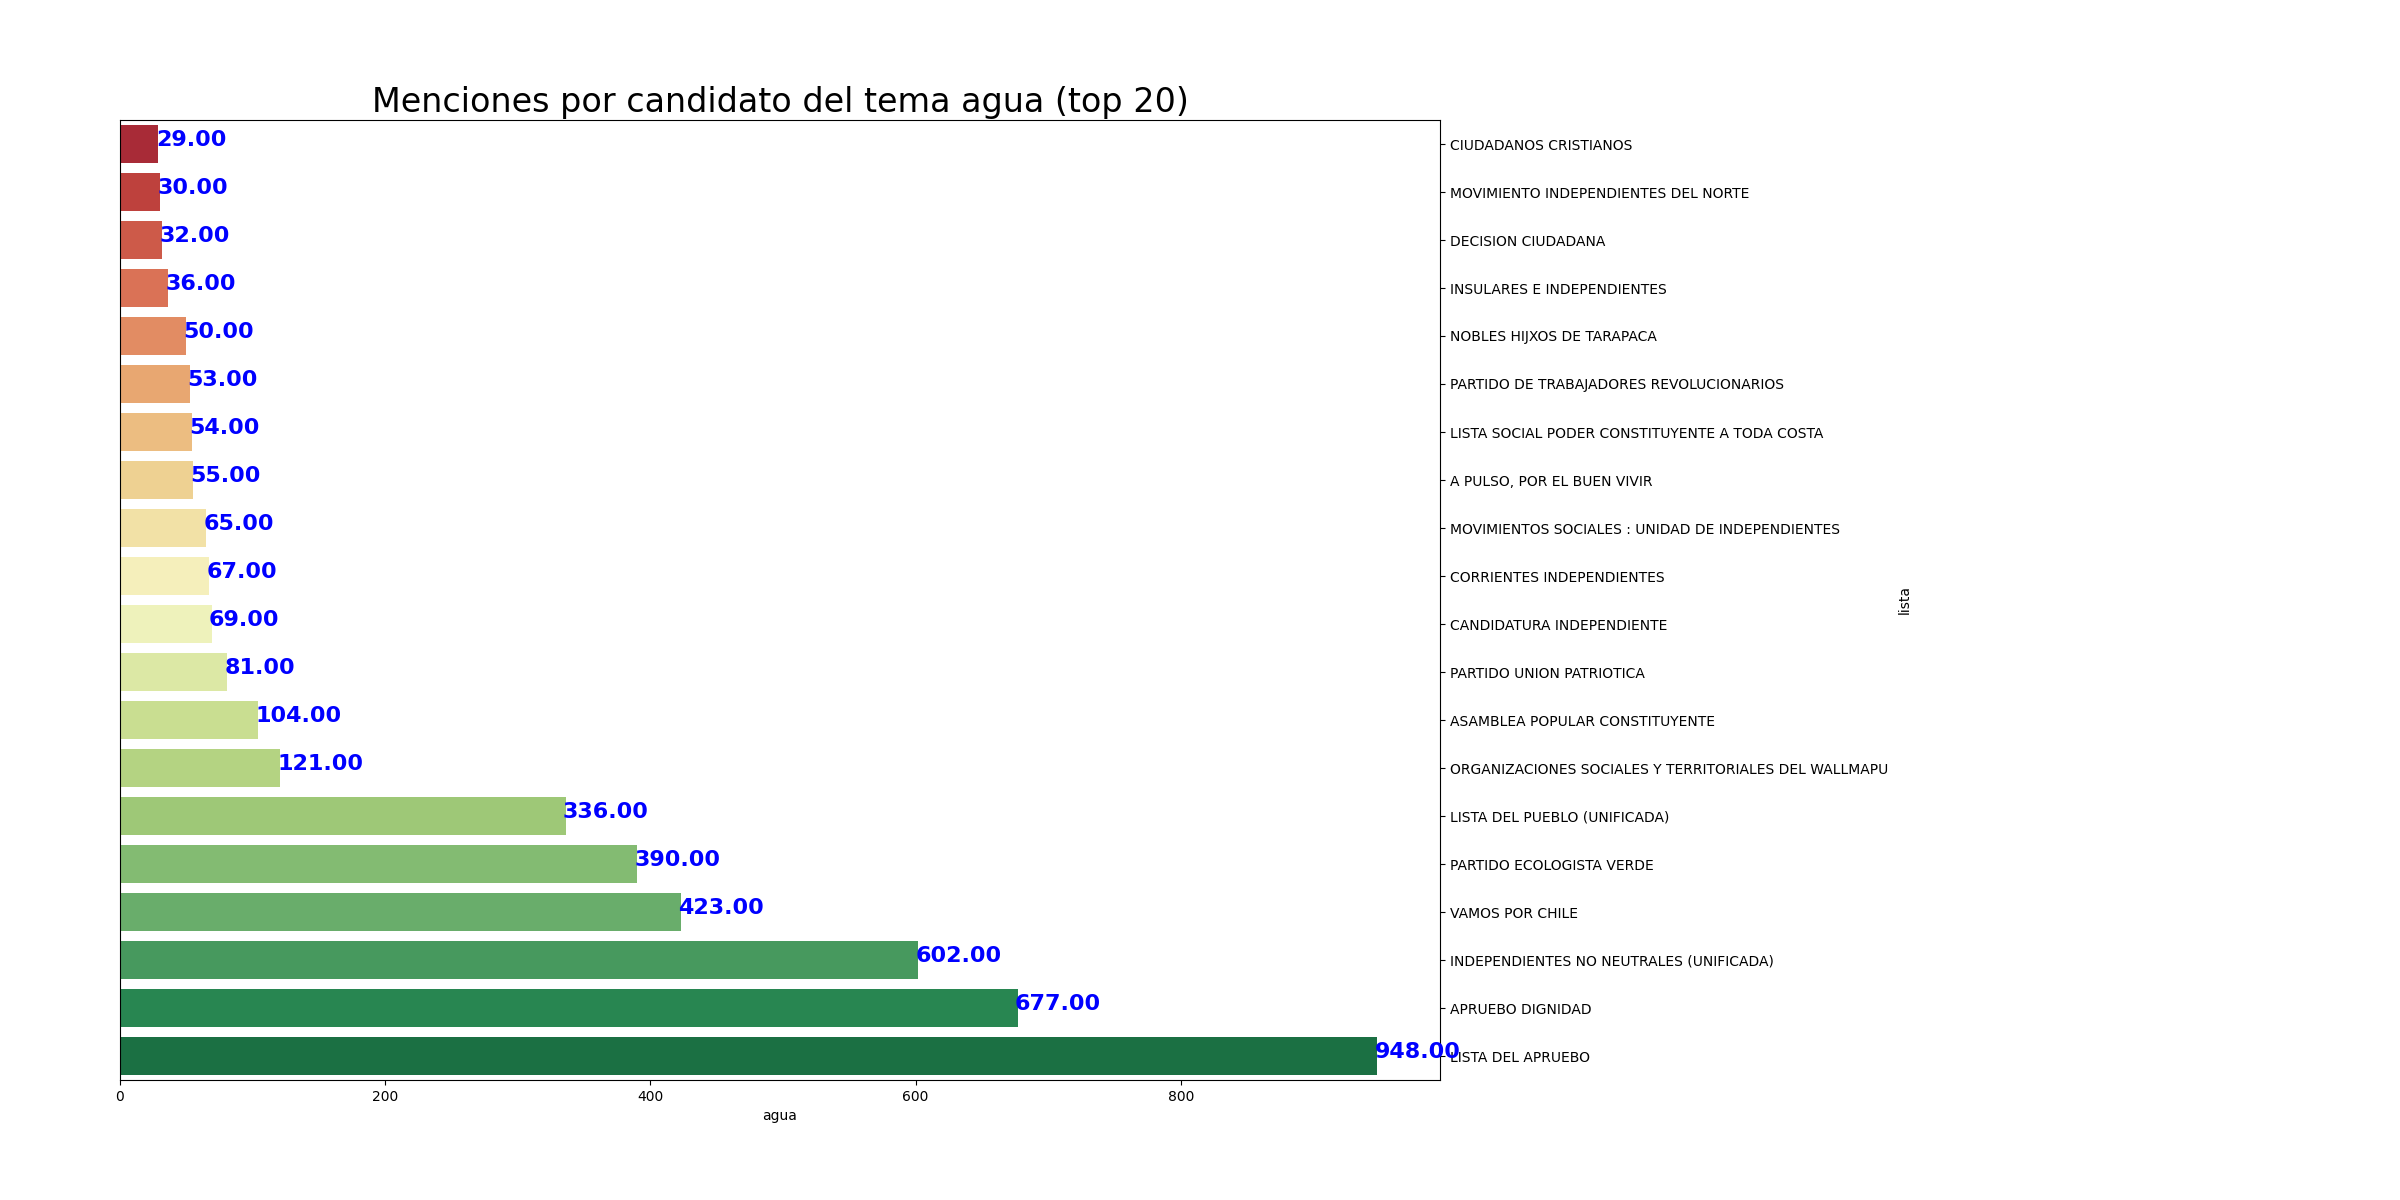
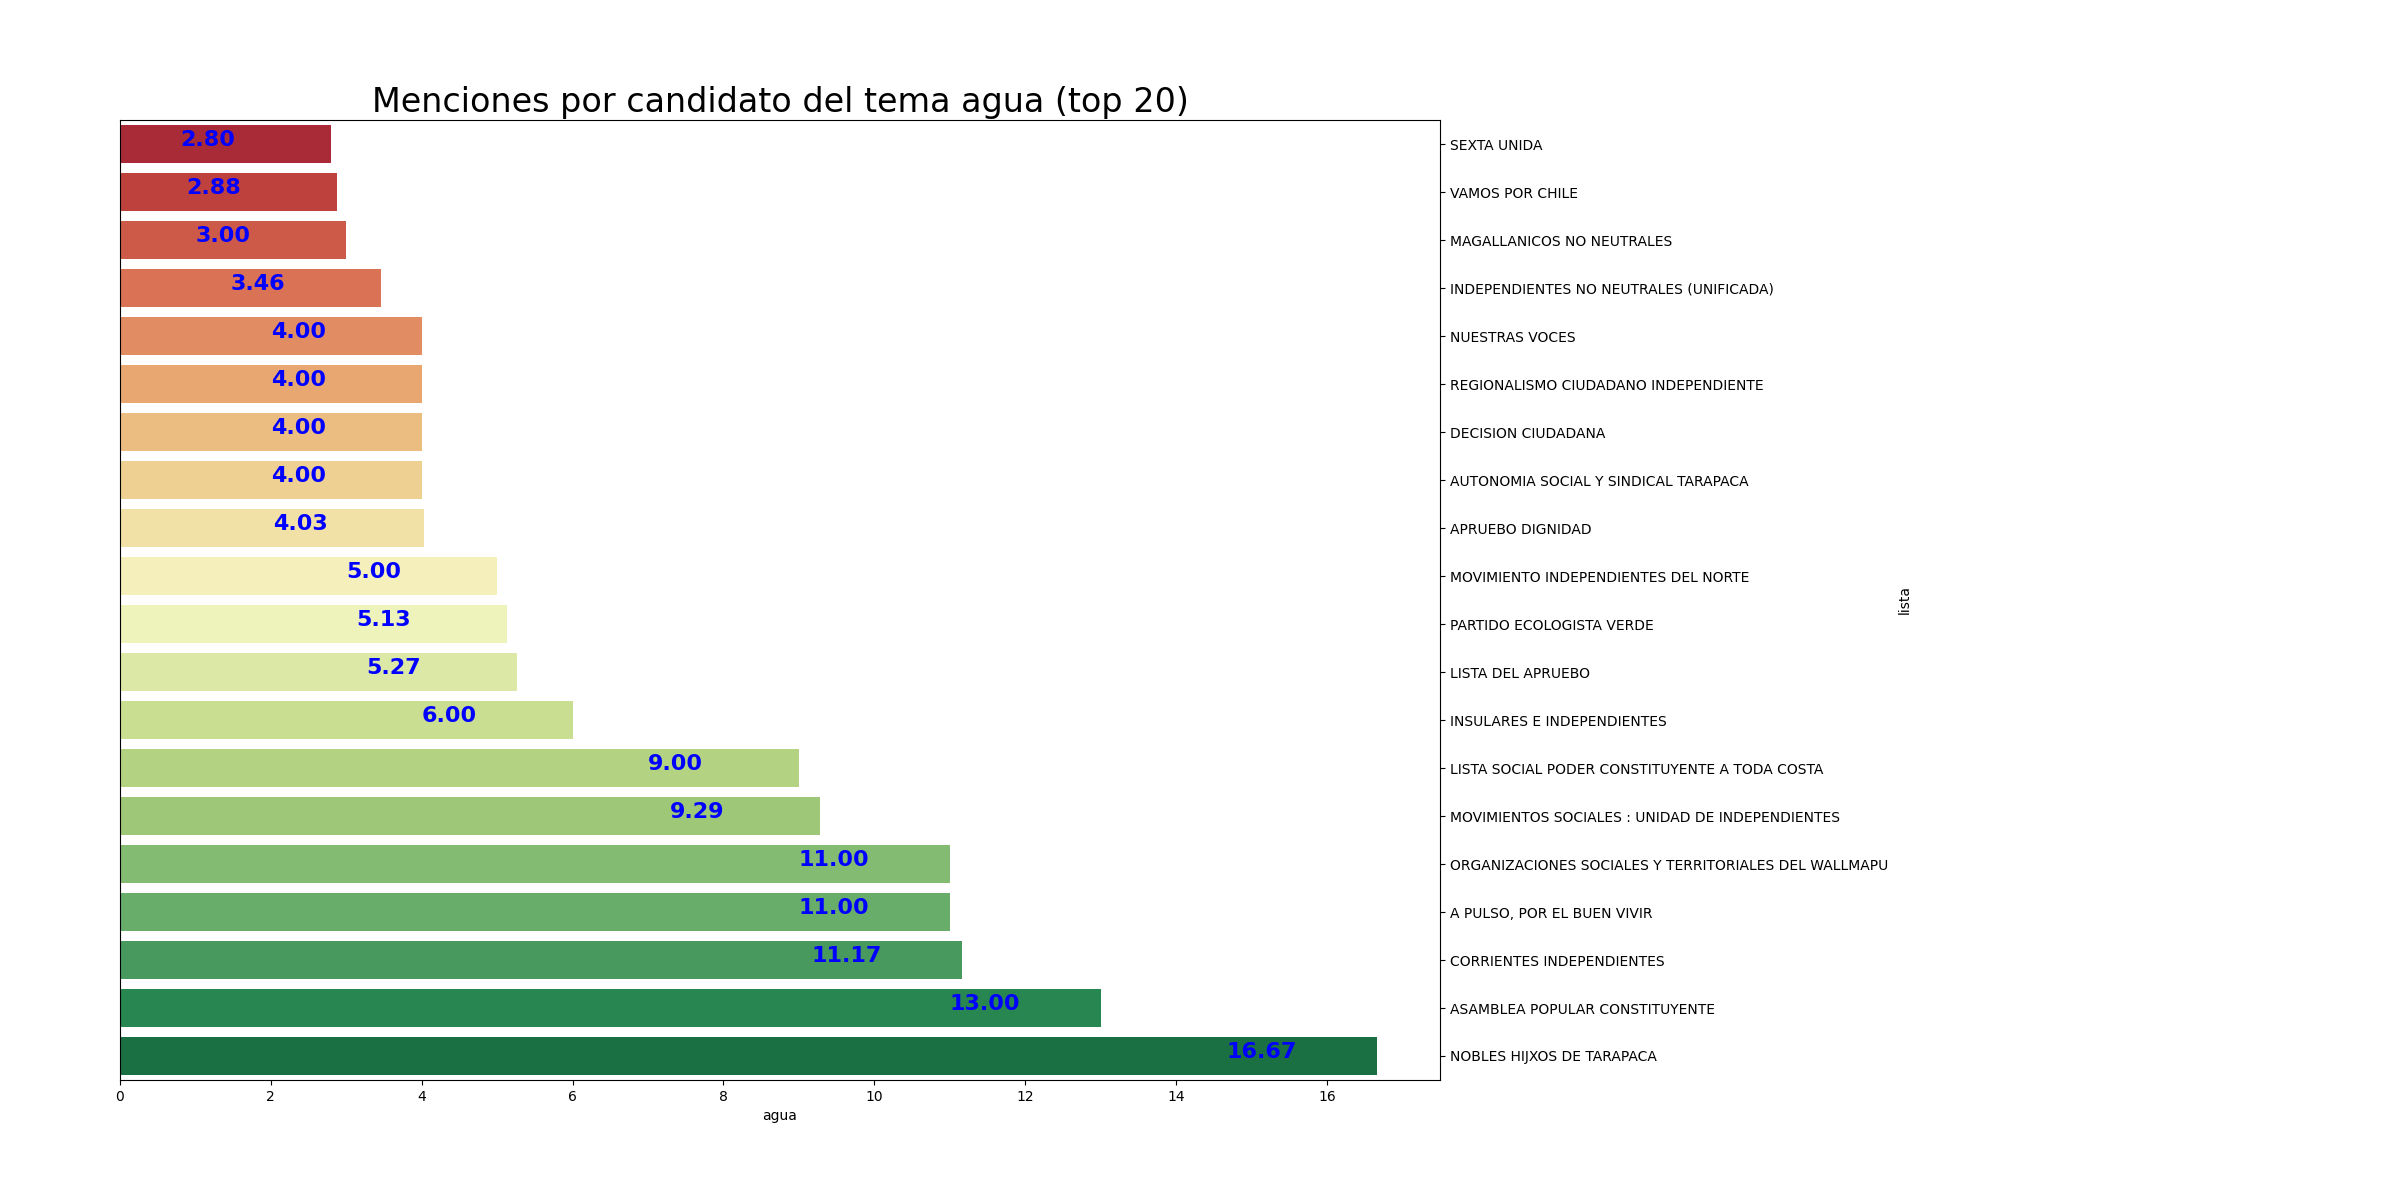
pushing it

diff --git a/plotters.py b/plotters.py
@@ -217,6 +217,11 @@ lisdf = pxdf.groupby('lista').agg({'total_menciones':['sum',len]}).reset_index()
 jose = lisdf
 jose.columns=['lista','total','nCandidatos']
 jose['menciones por candidato'] = jose.total/jose.nCandidatos
+claves = jose.lista.values
+candis = jose.nCandidatos.values
+candick = {claves[ix]: candis[ix] for ix in range(len(jose))}
+#jose.nCandidatos.to_dict()
+#valle
 lisdf = jose # albibaq
 
 
@@ -265,10 +270,12 @@ for tema in temas:
     tdf['lista']= tdf.lista.apply(fix_list)
     fig, ax = plt.subplots(1, figsize=(24,12))
     ts = xdf.groupby('lista').sum().reset_index()
+    # ahora los promedios
+    ts[tema]=[row[tema]/candick[row['lista']] for _,row in ts.iterrows()]
     ax = sns.barplot(x=tema, data=ts.sort_values(tema).tail(20), 
             y='lista', palette='RdYlGn')
-    print('-'*32, tema, '-*32')
-    print(ts.sort_values(tema))
+    #print('-'*32, tema, '-*32')
+    #print(ts.sort_values(tema))
     #for xx in (400,800):    
     #    plt.axvline(x=xx, color='blue')
     ax.yaxis.set_label_position("right")
